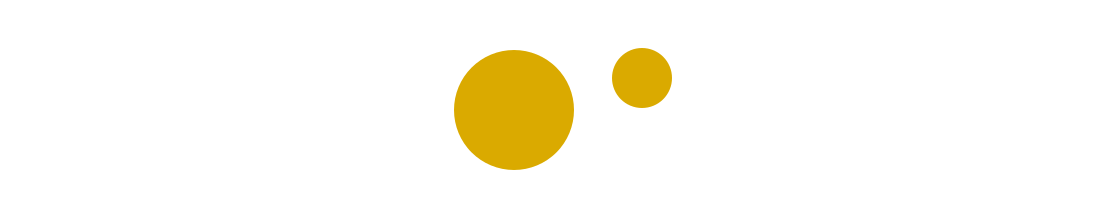
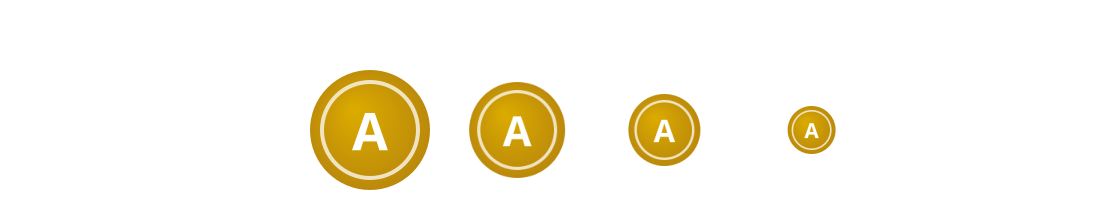
Make the Image example a badge worth rendering once

Changed region(s): [[0.25, 0.2182, 0.625, 0.8727], [0.6875, 0.4636, 0.75, 0.7091]]

diff --git a/test/image_test.cpp b/test/image_test.cpp
@@ -447,25 +447,44 @@ namespace
    // draws the page's figure.
    void example(canvas& cnv)
    {
+      // Render the badge once, at twice the display resolution.
       image badge{64, 64, 2};
       {
          offscreen_image off{badge};
          canvas bc{off.context()};
+
+         canvas::radial_gradient face{{24, 22}, 2, {32, 32}, 34};
+         face.add_color_stop(0, colors::gold);
+         face.add_color_stop(1, colors::dark_goldenrod);
+         bc.fill_style(face);
          bc.add_circle(32, 32, 30);
-         bc.fill_style(colors::gold);
          bc.fill();
+
+         bc.stroke_style(colors::white.opacity(0.75));
+         bc.line_width(2);
+         bc.add_circle(32, 32, 24);
+         bc.stroke();
+
+         bc.fill_style(colors::white);
+         bc.font(font_descr{"Open Sans", 26}.bold());
+         bc.text_align(canvas::center | canvas::middle);
+         bc.fill_text("A", 32, 32);
       }
 
-      cnv.draw(badge, {10, 10});
-      cnv.draw(badge, {90, 10}, 0.5);
+      // Paint it as often as you like. The drawing above ran once.
+      for (int i = 0; i != 4; ++i)
+      {
+         auto s = 1.0f - i * 0.2f;
+         cnv.draw(badge, {20.0f + i * 80, 20 + (64 - 64 * s) / 2}, s);
+      }
    }
 }
 
 TEST_CASE("Image: example figure", "[image]")
 {
    // The page figure images/foundation/image_example.png: what the code
-   // under == Example draws. The badge is painted at its own size and then
-   // at half of it.
+   // under == Example draws. One badge, rendered once and painted four
+   // times at four scales.
    float const w = 560, h = 110;
    image img{w, h, 2};
    {
@@ -473,22 +492,40 @@ TEST_CASE("Image: example figure", "[image]")
       canvas cnv{ctx.context()};
       cnv.fill_style(colors::white);
       cnv.fill_rect(0, 0, w, h);
-      cnv.translate(215, 13);
+      cnv.translate(133, 13);
       example(cnv);
    }
    img.save_png(get_results_path() + "image_example.png");
 
 #if !defined(ARTIST_RECORDING)
-   // Under the shift the full badge covers 225 to 289 by 23 to 87 and the
-   // half size one 305 to 337 by 23 to 55. The image is 2x.
-   auto blue_at = [&img](int x, int y)
+   // The red, green and blue of one pixel of this 2x figure.
+   auto px = [&img](int x, int y)
    {
       auto p = reinterpret_cast<std::uint8_t const*>(img.pixels());
       p += 4 * (2 * y * int(img.bitmap_size().x) + 2 * x);
-      return int(p[0]);
+      return std::array<int, 3>{p[2], p[1], p[0]};
    };
-   CHECK(blue_at(257, 55) < 60);      // the centre of the full badge
-   CHECK(blue_at(321, 39) < 60);      // the centre of the half size one
-   CHECK(blue_at(321, 70) > 240);     // below the half size one, blank
+   auto is_blank = [](std::array<int, 3> c)
+   {
+      return c[0] > 240 && c[1] > 240 && c[2] > 240;
+   };
+
+   // Under the shift the four badges start at x 153, 233, 313 and 393,
+   // each 64 * scale wide and centred on y 65.
+   for (int i = 0; i != 4; ++i)
+   {
+      auto scale = 1.0f - i * 0.2f;
+      auto cx = int(153 + i * 80 + 32 * scale);
+      // The face is gold: red well above blue.
+      auto face = px(cx, 65 - int(18 * scale));
+      CHECK(face[0] > 140);
+      CHECK(face[0] > face[2] + 60);
+      // Clear of the badge, nothing was painted.
+      CHECK(is_blank(px(cx, 65 - int(40 * scale) - 6)));
+   }
+
+   // The badge is lit from the top left, so its face is brighter there
+   // than at the opposite side of the same disc.
+   CHECK(px(172, 50)[0] + px(172, 50)[1] > px(198, 82)[0] + px(198, 82)[1]);
 #endif
 }
